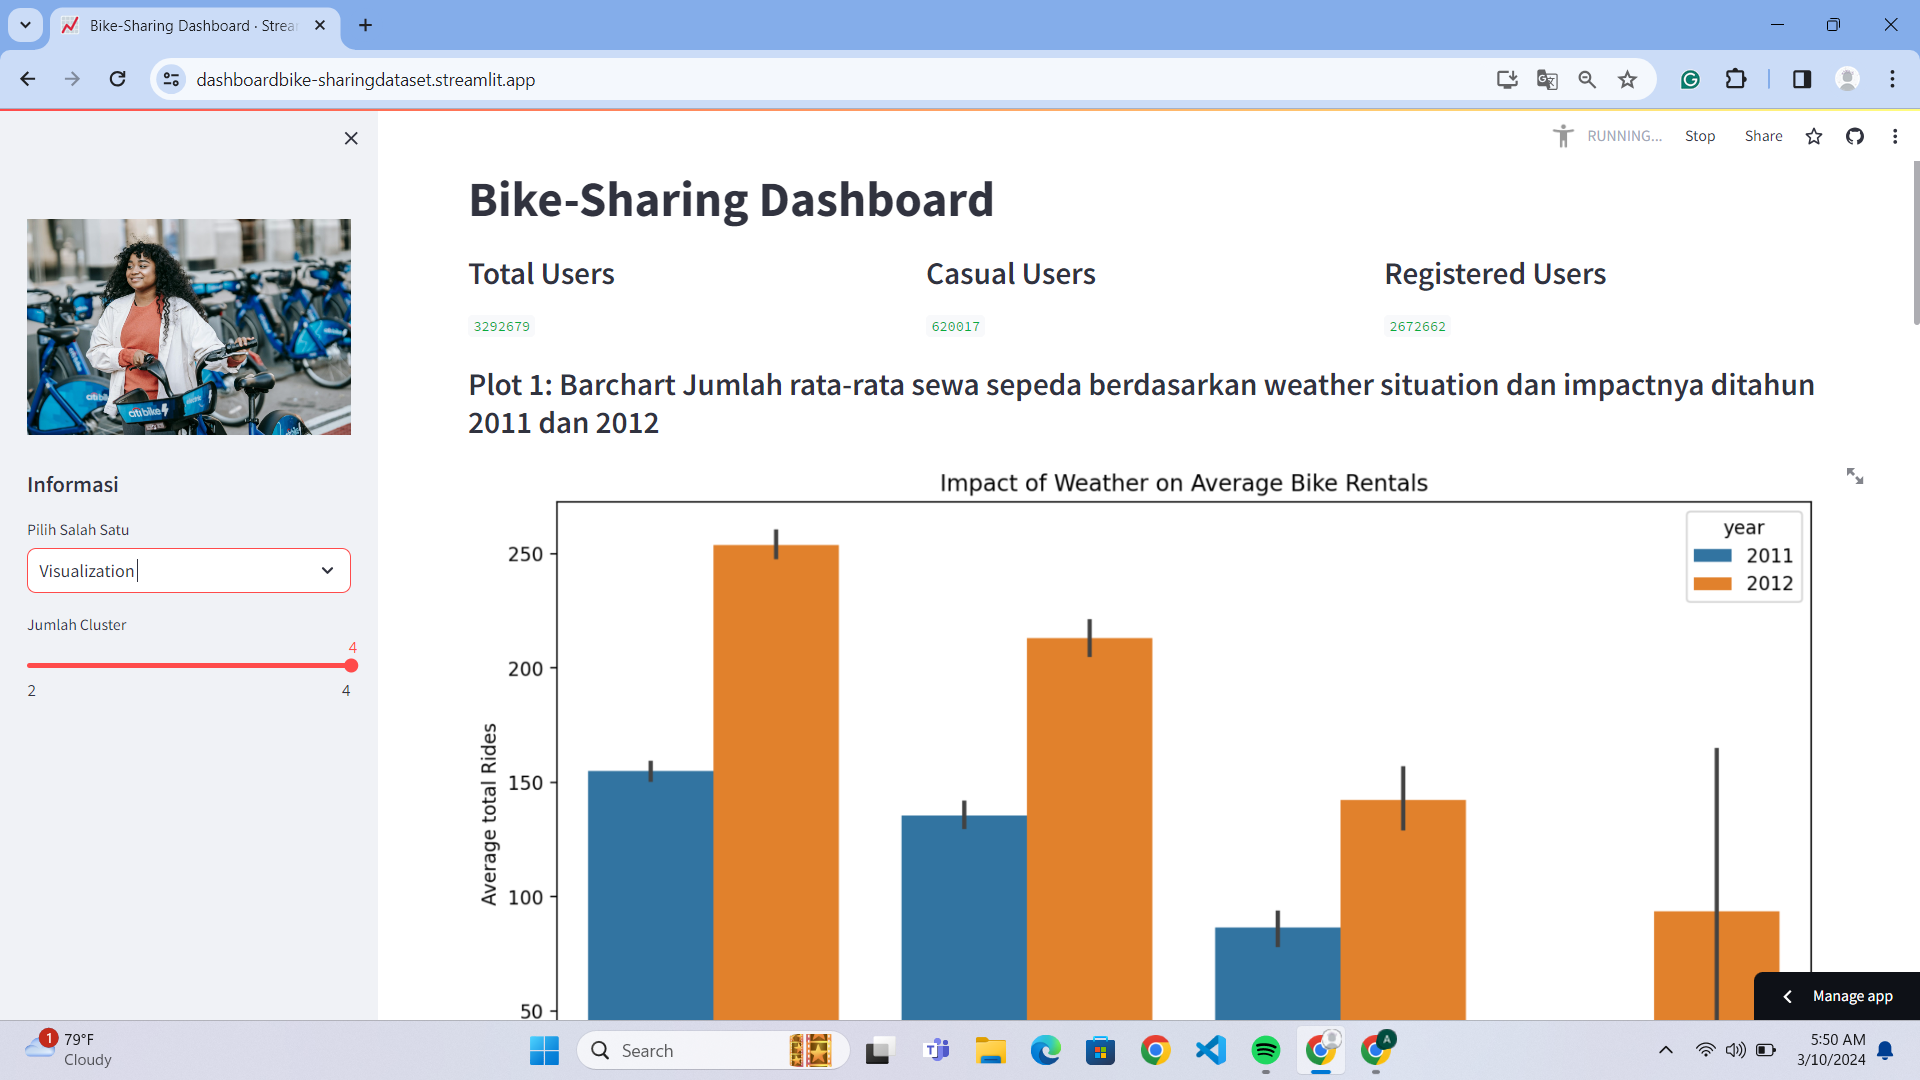
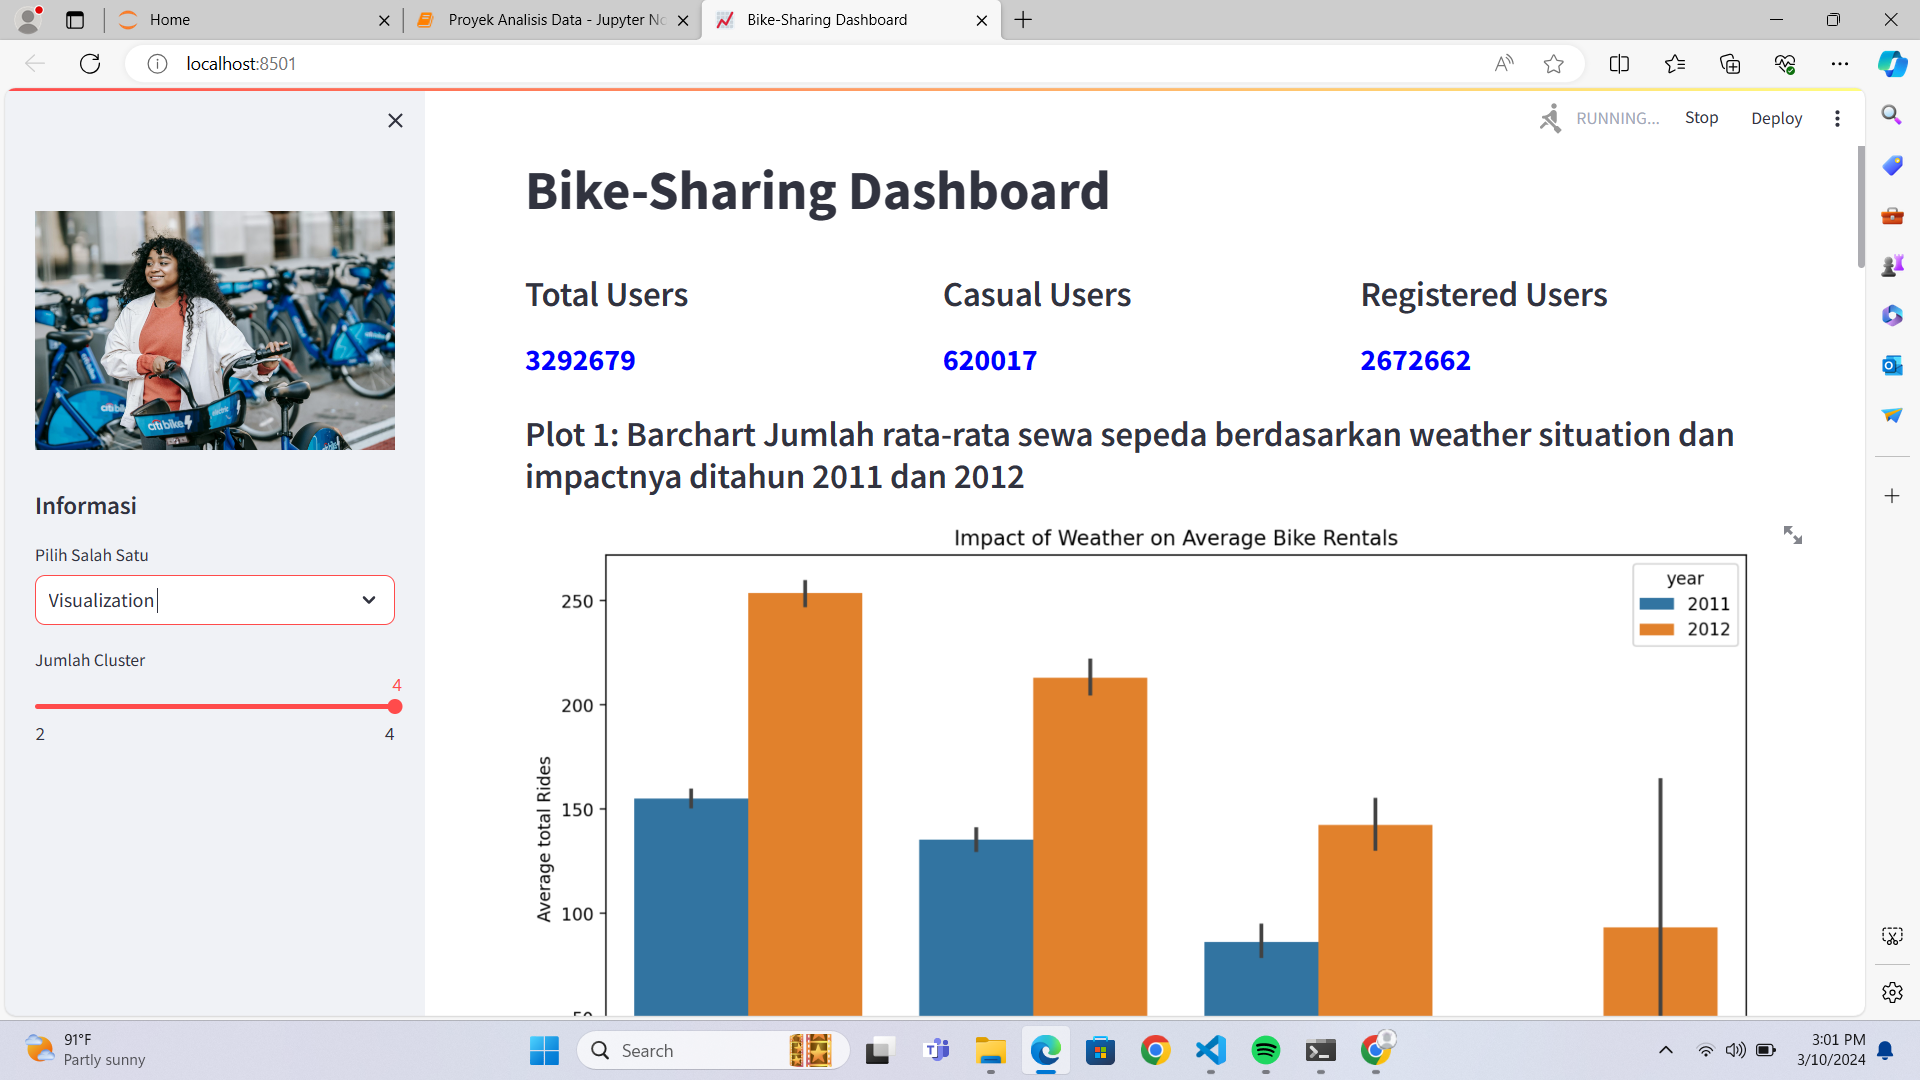
fix: update code

diff --git a/Dashboard/dashboard.py b/Dashboard/dashboard.py
@@ -57,29 +57,43 @@ if selected_analysis == "Dataset Overview":
 elif selected_analysis == "Visualization":
     # Title
     st.title("Bike-Sharing Dashboard") 
-    
 
     # Total Bike User Section
     total_users = bike_hour_df["total_count"].sum()
     casual_users = bike_hour_df["casual_count"].sum()
     registered_users = bike_hour_df["registered_count"].sum()
 
+    # Custom CSS to increase font size
+    st.markdown(
+        """
+        <style>
+             .big-blue-text {
+                font-size: 24px;
+                font-weight: bold;
+                color: blue;
+            }
+        </style>
+        """,
+        unsafe_allow_html=True
+    )
+
     # Display Total Users
     col1, col2, col3 = st.columns(3)
 
     with col1:
         st.subheader("Total Users")
-        st.write(total_users)
+        st.write(f'<p class="big-blue-text">{total_users}</p>', unsafe_allow_html=True)
 
     # Display Casual Users
     with col2:
         st.subheader("Casual Users")
-        st.write(casual_users)
+        st.write(f'<p class="big-blue-text">{casual_users}</p>', unsafe_allow_html=True)
 
     # Display Registered Users
     with col3:
         st.subheader("Registered Users")
-        st.write(registered_users)
+        st.write(f'<p class="big-blue-text"">{registered_users}</p>', unsafe_allow_html=True)
+
 
     
     ### Plot 1
@@ -233,4 +247,25 @@ elif selected_analysis == "Conclusion":
     st.subheader("Plot4: Clustering Analisis untuk melihat korelasi antara temperature dengan jumlah bike rental dengan menggunakan K-means")
     st.markdown("order bike-sharing memiliki nilai maksimum di summer dan nilai minimum di winter. Visualisasi yang ditampilkan sejalan dengan visualisasi yang ada di pertanyaan nomor 3. Dari hasil korelasi pertanyaan nomor 4 disimpulkan bahwa seiring dengan meningkatnya temperature orderan bike-sharing juga akan meningkat, puncaknya ada di musim summer. Dengan kata lain dapat dikatakan bahwa suhu yang lebih tinggi umumnya terkait dengan jumlah persewaan sepeda yang lebih tinggi. Peningkatan suhu dapat mendorong lebih banyak orang untuk menyewa sepeda.")
 
+    st.subheader("Hasil analisa teknik clustering")
+    st.markdown("Scatter plot ini menunjukkan titik data yang sama seperti plot (plot4) diatas tetapi diwarnai dengan label cluster yang ditetapkan setelah pengelompokan dengan menggunakan K-Means. Terdapat juga cluster center yang akan memahami untuk melihar nilai rata-rata fitur (temperature) untuk setiap cluster.")
+    st.subheader("1. untuk n=2")
+    st.markdown("Terdapat dua cluster yang berbeda dalam data.")
+    st.markdown("- Cluster 0  memiliki temperature rendah dan total sewa rendah, yang mana dapat mewakilkan musim dingin dan musim semi.")
+    st.markdown("- Cluster 1  memiliki temperature tinggi dan total sewa tinggi, yang mana dapat mewakilkan musim panas dan musim gugur.")
+    st.markdown("- Semakin tinggi nilai temperature (suhu) semakin tinggi pula total sewa bike-sharingnya.")
+
+    st.subheader("2. untuk n=3")
+    st.markdown("Terdapat 3 cluster yang berbeda dalam data.")
+    st.markdown("- cluster 0 memiliki temperature sedang dengan total sewa sedang")
+    st.markdown("- cluster 1 memiliki temperature tinggi dengan sewa tertinggi")
+    st.markdown("- cluster 2 memiliki temperature rendah dengan sewa terendah")
+
+    st.subheader("3. untuk n=4")
+    st.markdown("Terdapat 4 cluster yang berbeda dalam data")
+    st.markdown("- cluster 0 memiliki suhu agak rendah dengan sewa agak rendah, cluster ini mewakili musim semi")
+    st.markdown("- cluster 1 memiliki suhu tinggi dengan jumlah sewa yang tertinggi, cluster ini mewakili musim panas (summer)")
+    st.markdown("- cluster 2 memiliki suhu rendah dengan sewa terendah, cluster ini mewakili musim dingin")
+    st.markdown("- cluster 3 memiliki suhu sedang dengan jumlah sewa sedang, cluster ini mewakili musim gugur")
+    
     st.caption('Copyright © Tasya Nadila')
